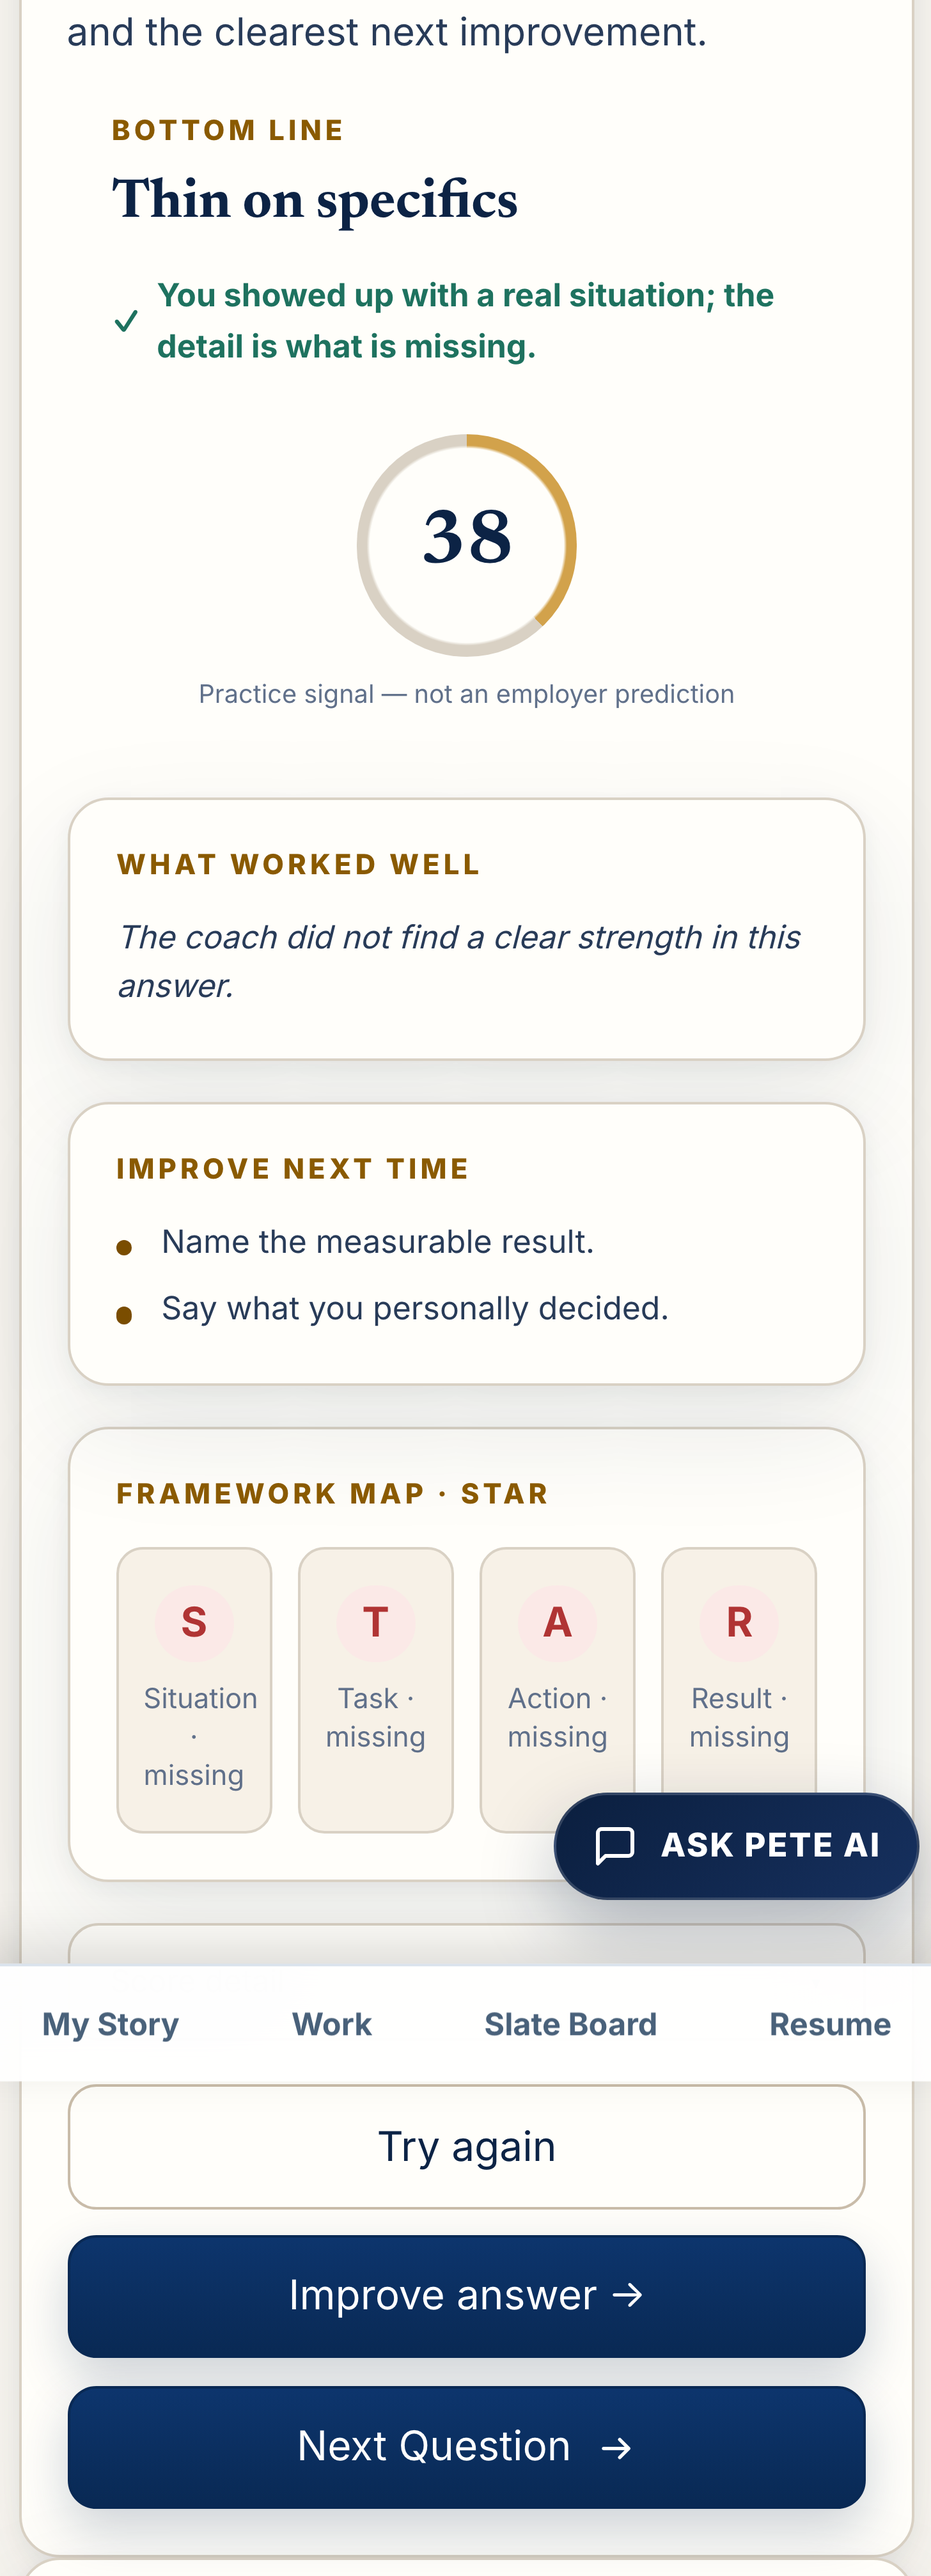
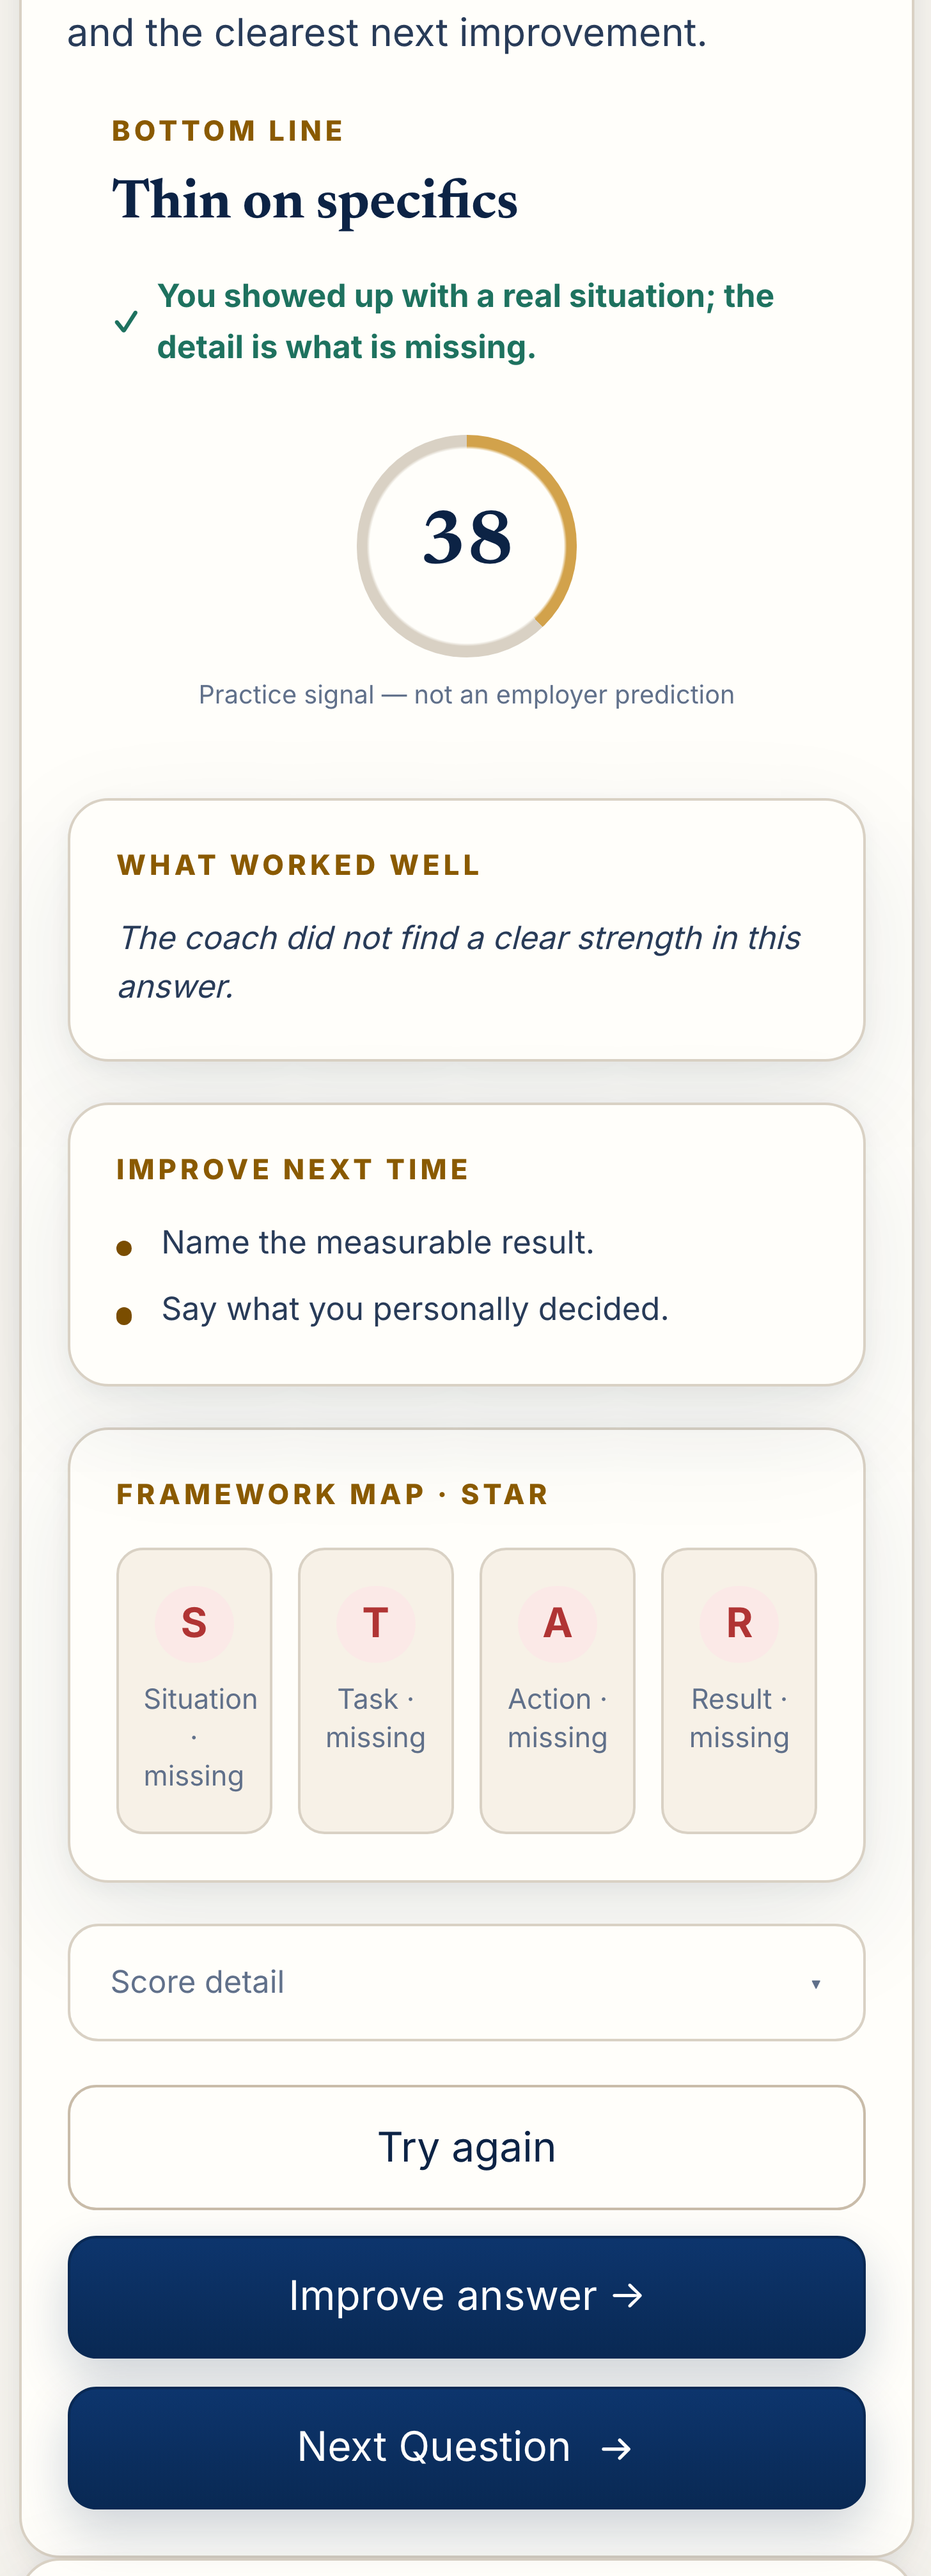
Require improvements again; keep empty strengths allowed
Owner ruling (Pete, 2026-07-20): "There should never be a blank, but
there can be something to encourage to do better."

Validator: improvements is required again in validate_interview_review;
strengths stays optional. Verdict and encouragement remain required, as
do dimensions, STAR and score arithmetic. The two lists are now
deliberately asymmetric, and the rationale is recorded at the check: an
empty strengths list is legitimate because a weak answer may genuinely
have nothing to praise, but an empty improvements list is not plausible
coaching - it indicates a degraded response we should not render, and
the page header promises "what is missing, and the clearest next
improvement", so that column is the actual deliverable.

Tests: removed test_a_review_with_neither_strengths_nor_improvements_
still_renders, which asserted behavior Pete has now rejected, and
reverted test_empty_improvements_is_delivered_the_same_way. Replaced
with four tests: empty improvements rejected; empty improvements
rejected even when strengths are present; empty strengths alone still
returns 200 (guards the asymmetry against a regression that quietly
makes strengths required again); and empty improvements still logged as
reason=empty_required_field, so the rejection stays attributable.

Copy: the empty-strengths wording is now a single named constant,
EMPTY_STRENGTHS_MESSAGE at static/js/interview-studio.js:824, marked as
the single edit point and referenced by both the live review and the
[…]

Changed region(s): [[0.0, 0.6517, 1.0, 0.8069]]

diff --git a/static/js/interview-studio.js b/static/js/interview-studio.js
@@ -809,8 +809,20 @@
         });
     }
 
-    var IS_NO_STRENGTHS = 'The coach did not find a clear strength in this answer.';
-    var IS_NO_IMPROVEMENTS = 'The coach did not list an improvement for this answer.';
+    // ---------------------------------------------------------------------
+    // SINGLE EDIT POINT for the empty-strengths wording.
+    //
+    // A review may legitimately carry zero strengths (owner decision,
+    // 2026-07-20), and this is the one line the reader sees when that happens.
+    // Pete is still choosing the final wording, so change ONLY this string --
+    // every place that needs it references this constant.
+    //
+    // Improvements are now server-required and can never be empty in a rendered
+    // review, so EMPTY_IMPROVEMENTS_MESSAGE is a defensive fallback for
+    // browser-local history records only (localStorage is not server-validated).
+    // ---------------------------------------------------------------------
+    var EMPTY_STRENGTHS_MESSAGE = 'The coach did not find a clear strength in this answer.';
+    var EMPTY_IMPROVEMENTS_MESSAGE = 'The coach did not list an improvement for this answer.';
 
     function renderReview(review) {
         session.currentReview = review;
@@ -821,8 +833,8 @@
         ring.setAttribute('aria-label', 'Overall interview score: ' + score + ' out of 100');
         text(one('[data-is-verdict]'), review.verdict);
         text(one('[data-is-encouragement]'), review.encouragement);
-        renderList(one('[data-is-strengths]'), review.strengths, IS_NO_STRENGTHS);
-        renderList(one('[data-is-improvements]'), review.improvements, IS_NO_IMPROVEMENTS);
+        renderList(one('[data-is-strengths]'), review.strengths, EMPTY_STRENGTHS_MESSAGE);
+        renderList(one('[data-is-improvements]'), review.improvements, EMPTY_IMPROVEMENTS_MESSAGE);
 
         var starList = one('[data-is-star]');
         var starDisplayStatus = { strong: 'strong', present: 'clear', partial: 'needs more', missing: 'missing' };
@@ -1697,8 +1709,8 @@
         text(one('[data-is-history-detail-answer-text]'), record.answer || '');
         text(one('[data-is-history-detail-verdict]'), record.verdict || '');
         text(one('[data-is-history-detail-encouragement]'), record.encouragement || '');
-        renderList(one('[data-is-history-detail-strengths]'), record.strengths || [], IS_NO_STRENGTHS);
-        renderList(one('[data-is-history-detail-improvements]'), record.improvements || [], IS_NO_IMPROVEMENTS);
+        renderList(one('[data-is-history-detail-strengths]'), record.strengths || [], EMPTY_STRENGTHS_MESSAGE);
+        renderList(one('[data-is-history-detail-improvements]'), record.improvements || [], EMPTY_IMPROVEMENTS_MESSAGE);
         text(one('[data-is-history-detail-duration]'), record.durationSeconds ? formatDuration(record.durationSeconds) : 'A local rehearsal');
 
         if (!historyDetail.open) {

diff --git a/tests/test_interview_studio.py b/tests/test_interview_studio.py
@@ -864,25 +864,50 @@ class InterviewCoachingFailurePathTests(unittest.TestCase):
         self.assertEqual(len(review['dimensions']), 5)
         self.assertEqual(review['improvements'], ['Name the measurable result.'])
 
-    def test_empty_improvements_is_delivered_the_same_way(self):
-        response = self.post_review(json.dumps(review_payload(improvements=[])))
-        self.assertEqual(response.status_code, 200)
-        review = response.get_json()['review']
-        self.assertEqual(review['improvements'], [])
-        self.assertEqual(review['strengths'], ['You gave a real example.'])
+    # -- the genuinely essential fields are still required ----------------
 
-    def test_a_review_with_neither_strengths_nor_improvements_still_renders(self):
-        response = self.post_review(
-            json.dumps(review_payload(strengths=[], improvements=[])),
-        )
+    def test_empty_improvements_is_rejected(self):
+        """Owner decision (2026-07-20): improvements is NOT optional.
+
+        Pete: "There should never be a blank, but there can be something to
+        encourage to do better." An empty strengths list is legitimate -- a weak
+        answer may genuinely have nothing to praise. An empty improvements list
+        is not plausible coaching: if the coach found no way to improve a weak
+        answer, that is a degraded response we should not render. The page header
+        promises "what is missing, and the clearest next improvement", so that
+        column is the actual deliverable.
+        """
+        response = self.post_review(json.dumps(review_payload(improvements=[])))
+        self.assertEqual(response.status_code, 502)
+        body = response.get_json()
+        self.assertEqual(body['error'], self.REVIEW_ERROR)
+        self.assertNotIn('review', body)
+
+    def test_empty_improvements_is_rejected_even_when_strengths_are_present(self):
+        response = self.post_review(json.dumps(review_payload(
+            strengths=['You gave a real example.'], improvements=[],
+        )))
+        self.assertEqual(response.status_code, 502)
+        self.assertNotIn('review', response.get_json())
+
+    def test_empty_strengths_alone_still_returns_the_review(self):
+        """The two lists are deliberately asymmetric; guard against a regression
+        that quietly makes strengths required again alongside improvements."""
+        response = self.post_review(json.dumps(review_payload(
+            strengths=[], improvements=['Name the measurable result.'],
+        )))
         self.assertEqual(response.status_code, 200)
         review = response.get_json()['review']
         self.assertEqual(review['strengths'], [])
-        self.assertEqual(review['improvements'], [])
-        self.assertTrue(review['verdict'])
-        self.assertTrue(review['encouragement'])
+        self.assertEqual(review['improvements'], ['Name the measurable result.'])
 
-    # -- the genuinely essential fields are still required ----------------
+    def test_empty_improvements_is_logged_as_an_empty_required_field(self):
+        """The rejection must stay attributable in the logs."""
+        with self.assertLogs(app.logger, level='WARNING') as logged:
+            self.post_review(json.dumps(review_payload(improvements=[])))
+        line = '\n'.join(logged.output)
+        self.assertIn('reason=empty_required_field', line)
+        self.assertIn('provider_stop_reason=end_turn', line)
 
     def test_a_review_missing_its_verdict_is_still_rejected(self):
         response = self.post_review(json.dumps(review_payload(verdict='')))
@@ -1032,15 +1057,33 @@ class InterviewEmptyReviewListRenderingTests(unittest.TestCase):
         # renderList must accept and render an explicit empty message.
         self.assertIn('function renderList(element, items, emptyMessage)', js)
         self.assertIn('is__bullets-empty', js)
-        self.assertIn('IS_NO_STRENGTHS', js)
-        self.assertIn('IS_NO_IMPROVEMENTS', js)
+        self.assertIn('EMPTY_STRENGTHS_MESSAGE', js)
+        self.assertIn('EMPTY_IMPROVEMENTS_MESSAGE', js)
         # Both the live review and the history detail use it.
-        self.assertEqual(js.count('IS_NO_STRENGTHS'), 3)
-        self.assertEqual(js.count('IS_NO_IMPROVEMENTS'), 3)
+        self.assertEqual(js.count('EMPTY_STRENGTHS_MESSAGE'), 3)
+
+    def test_the_empty_strengths_wording_lives_in_exactly_one_place(self):
+        """Pete is still choosing the wording, so it must stay a one-line edit.
+
+        The literal may appear only on the constant's own declaration; every
+        consumer must reference the constant instead of repeating the string.
+        """
+        js = self.source('static/js/interview-studio.js')
+        literal = 'The coach did not find a clear strength in this answer.'
+        self.assertEqual(js.count(literal), 1)
+        declarations = [
+            row for row in js.splitlines()
+            if 'EMPTY_STRENGTHS_MESSAGE =' in row
+        ]
+        self.assertEqual(len(declarations), 1)
+        self.assertIn(literal, declarations[0])
 
     def test_the_absence_message_does_not_manufacture_praise(self):
         js = self.source('static/js/interview-studio.js')
-        line = [row for row in js.splitlines() if 'IS_NO_STRENGTHS =' in row][0]
+        line = [
+            row for row in js.splitlines()
+            if 'EMPTY_STRENGTHS_MESSAGE =' in row
+        ][0]
         self.assertIn('did not find', line)
         for forbidden in ('great job', 'well done', 'nice work'):
             self.assertNotIn(forbidden, line.lower())

diff --git a/app.py b/app.py
@@ -2015,14 +2015,23 @@ def validate_interview_review(raw, answer_length=None, allowed_evidence_ids=None
         'strengths': _string_list(raw.get('strengths', []), 4),
         'improvements': _string_list(raw.get('improvements', []), 4),
     }
-    # Owner decision (2026-07-20): strengths and improvements may legitimately be
-    # empty. The system prompt sets a MAXIMUM ("max 4 short bullets") and never a
-    # minimum, so for a genuinely weak answer zero strengths is the honest result.
-    # PeerSlate preserves what the coach actually found rather than pressuring it
-    # to manufacture praise, so an empty list renders as a truthful absence
-    # instead of being thrown away as a 502. The verdict, encouragement,
-    # dimensions, STAR assessment, and scores below remain required.
-    if not review['verdict'] or not review['encouragement']:
+    # Owner decision (2026-07-20): strengths may be empty; improvements may not.
+    # "There should never be a blank, but there can be something to encourage to
+    # do better."
+    #
+    # The system prompt sets a MAXIMUM ("max 4 short bullets") and never a
+    # minimum, so for a genuinely weak answer zero strengths is the honest
+    # result: PeerSlate preserves what the coach actually found rather than
+    # pressuring it to manufacture praise, and an empty strengths list renders as
+    # a truthful absence instead of being thrown away as a 502.
+    #
+    # An empty improvements list is different. It is not plausible coaching -- if
+    # the coach found no way to improve a weak answer, that indicates a degraded
+    # response we should not render. The page's own header promises "what is
+    # missing, and the clearest next improvement", so that column is the actual
+    # deliverable. Verdict, encouragement, dimensions, STAR, and scores below
+    # also remain required.
+    if not review['verdict'] or not review['encouragement'] or not review['improvements']:
         raise ValueError('review summary is incomplete')
 
     dimensions = raw.get('dimensions')
